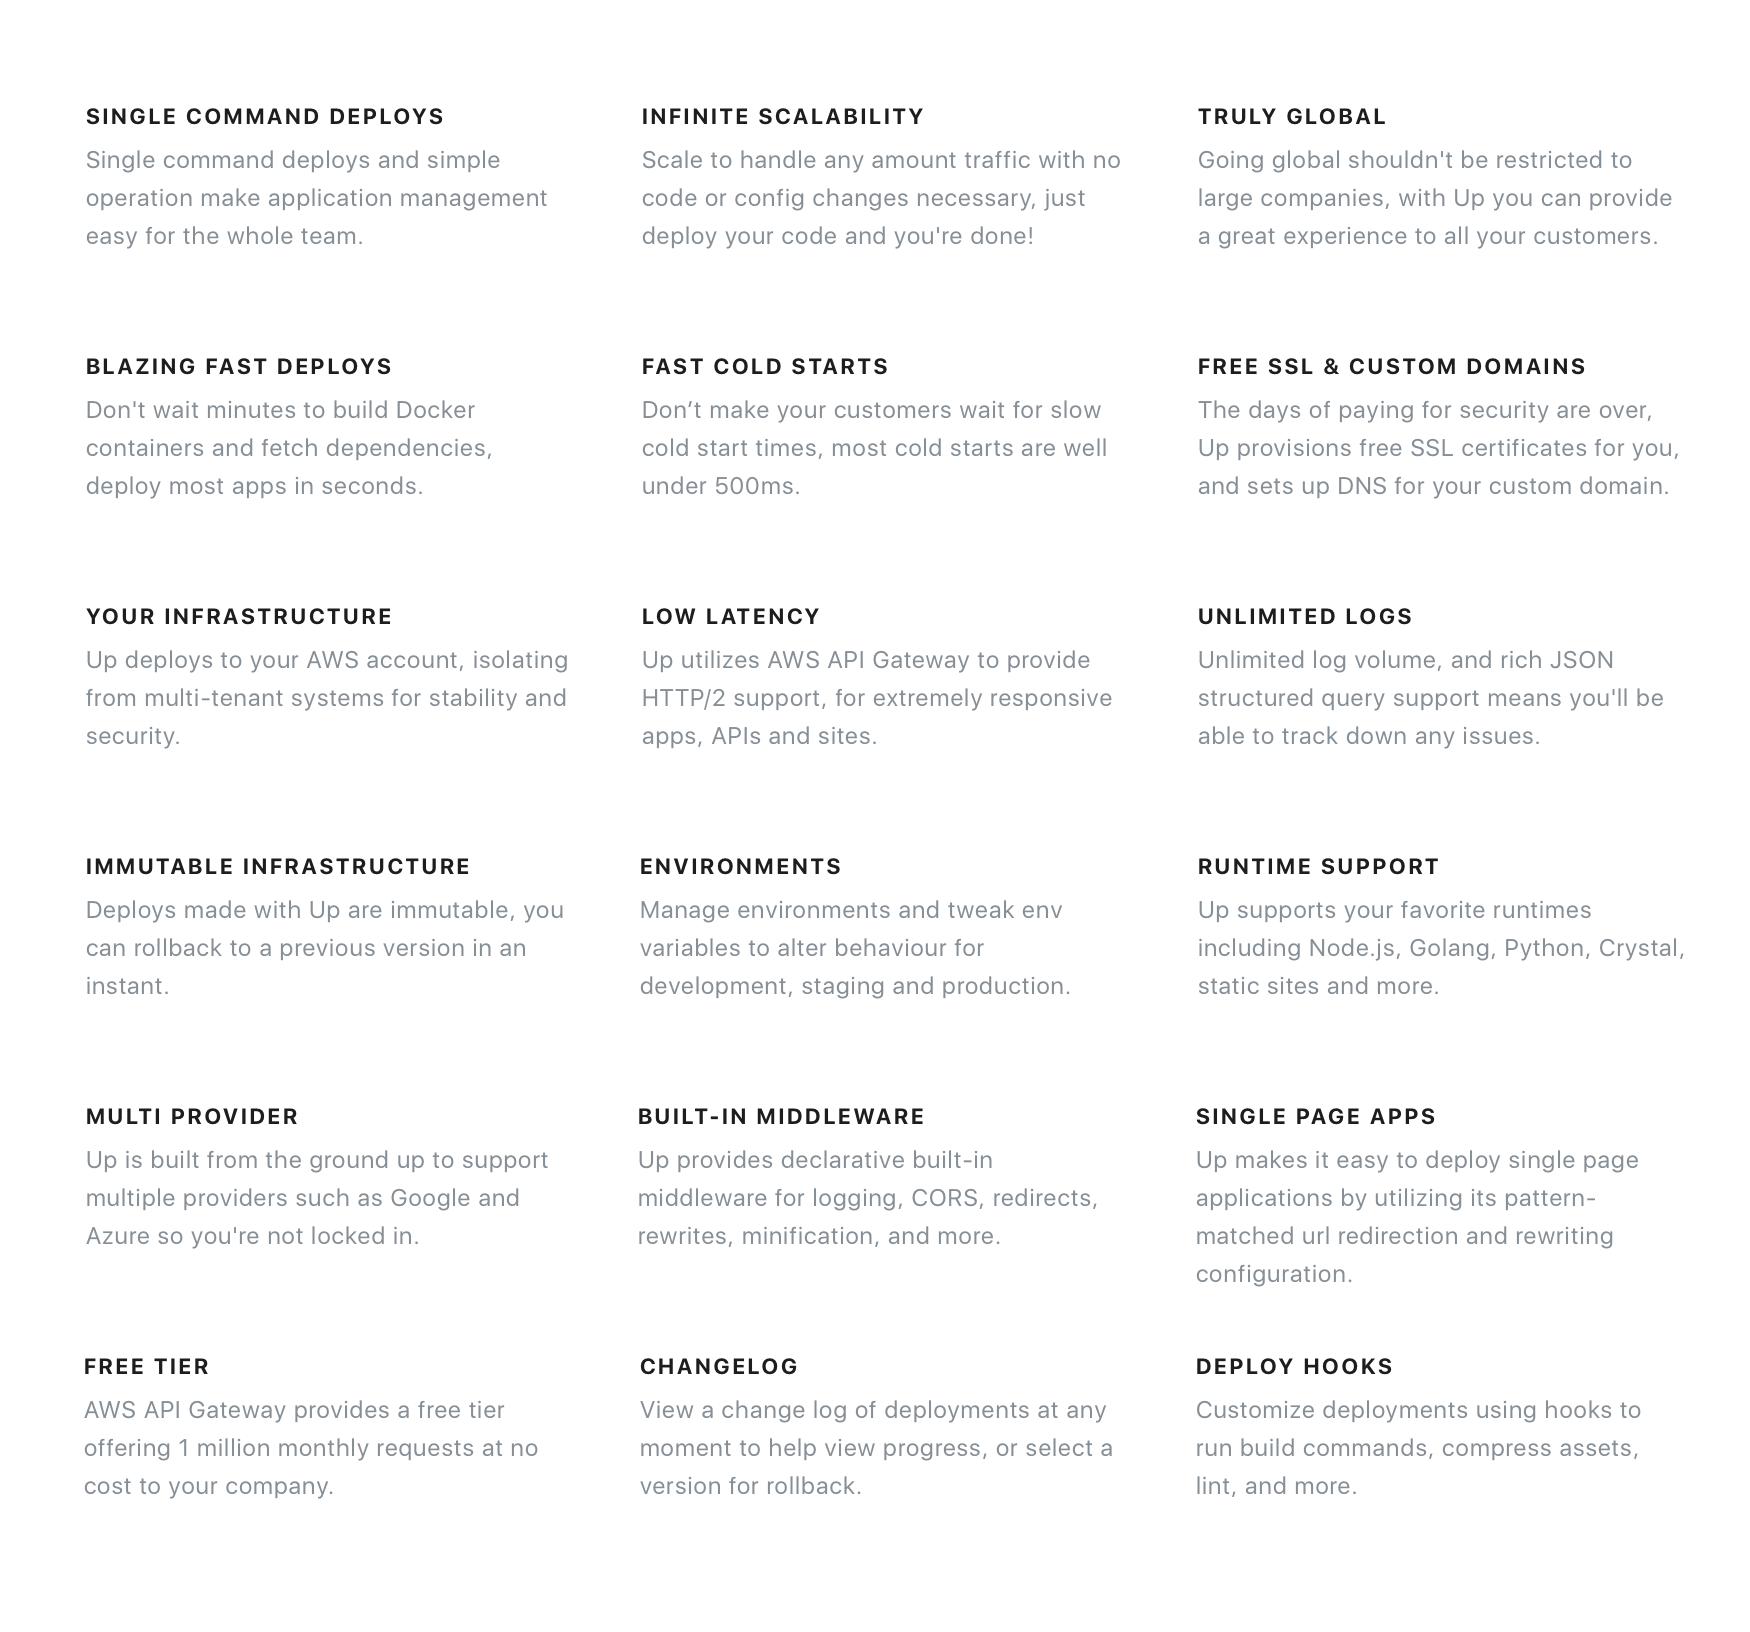
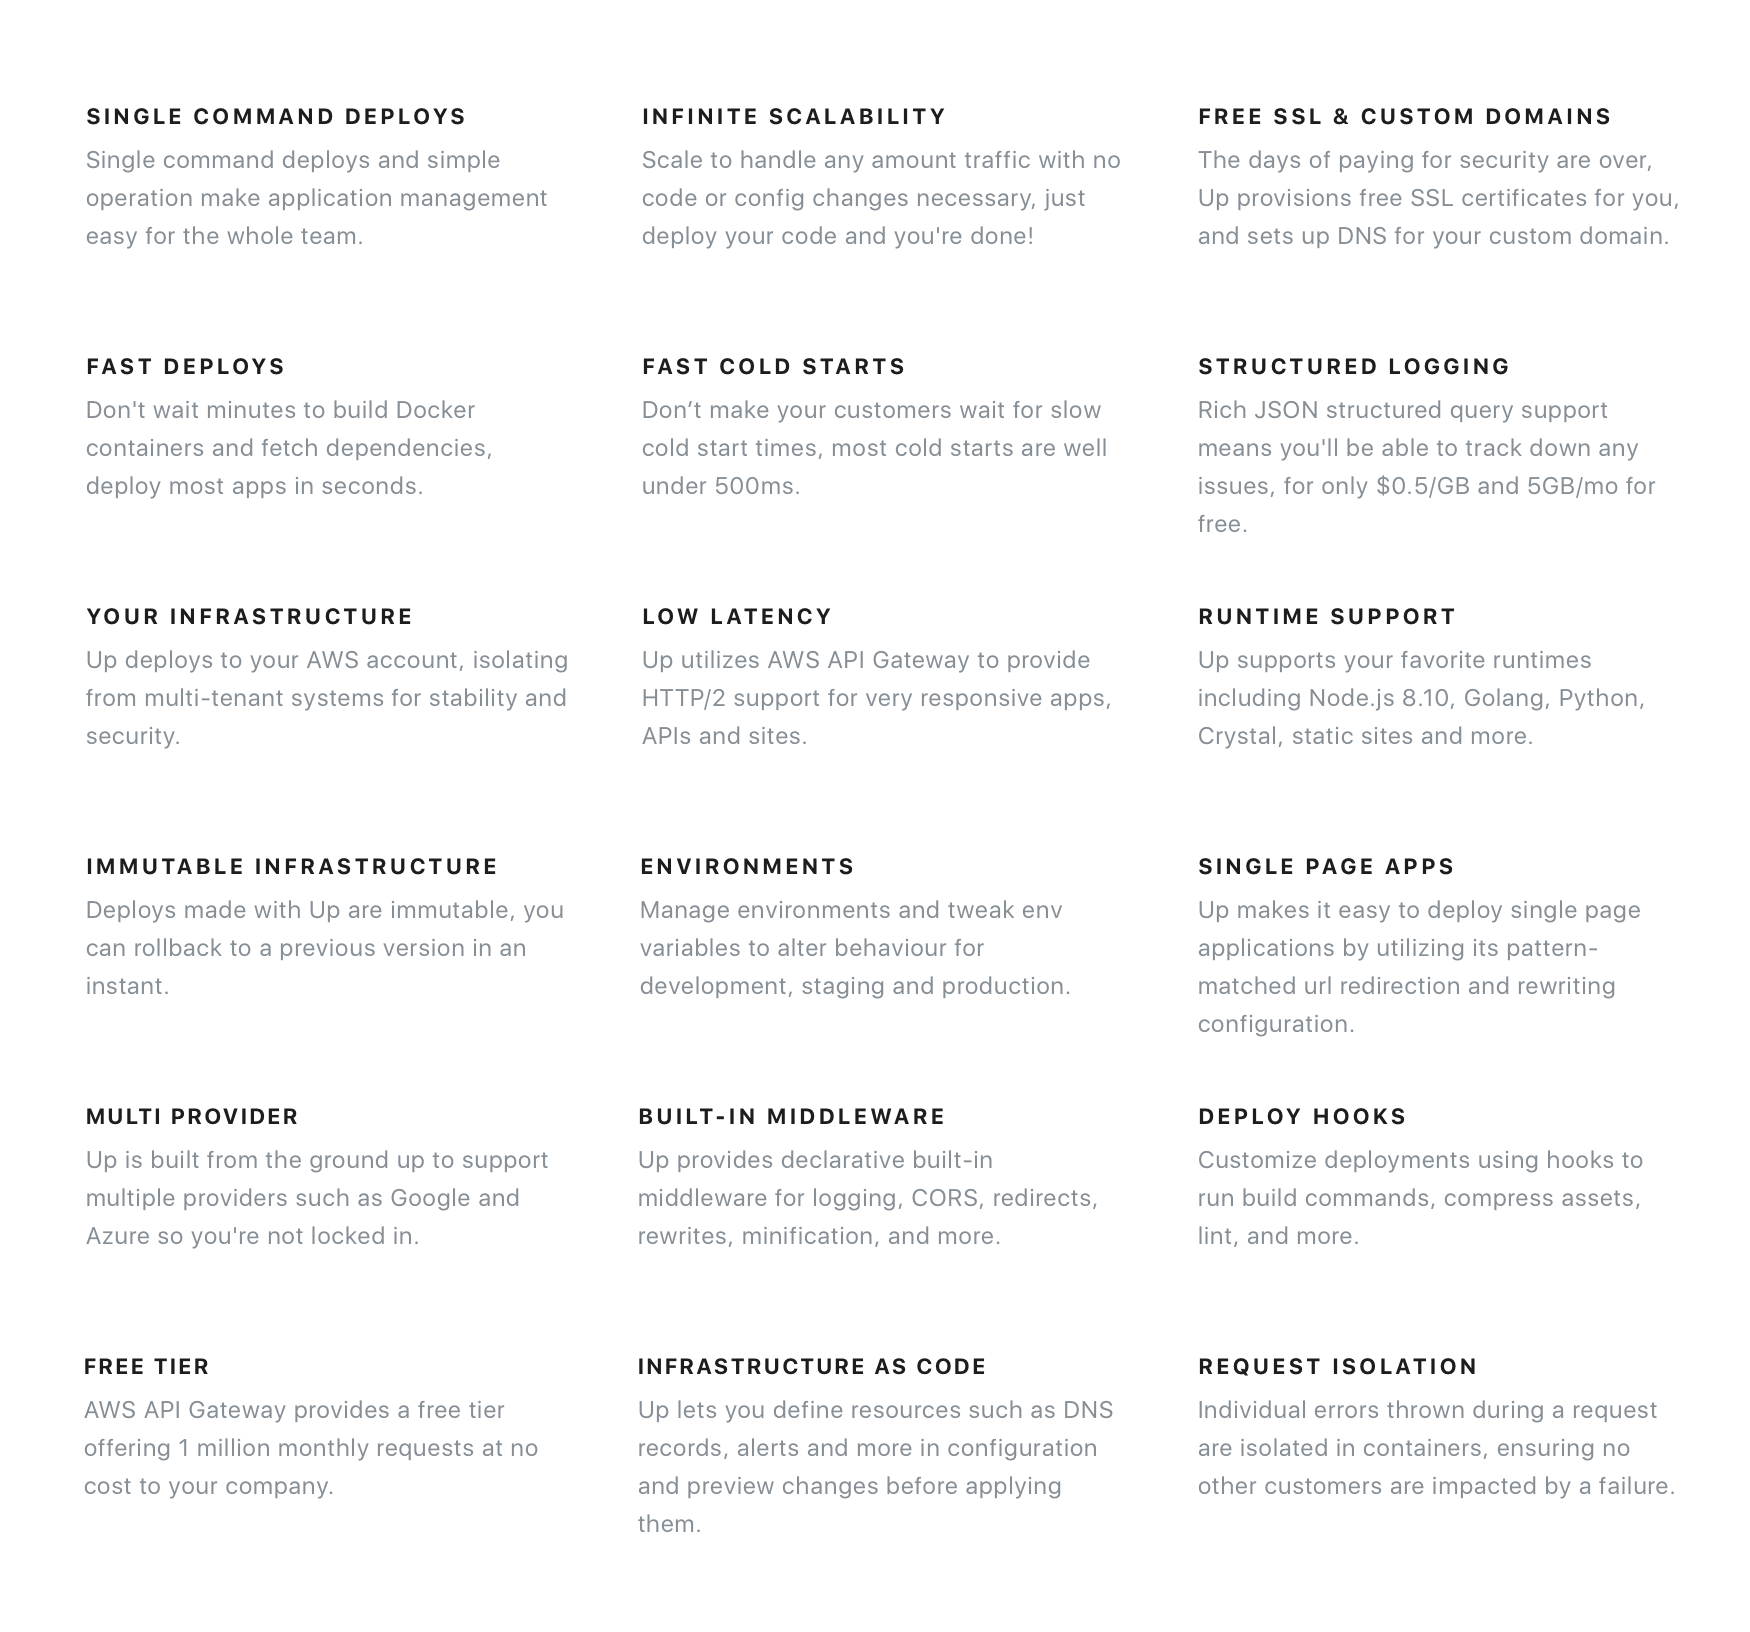
docs: add new feature grids that are up to date

diff --git a/Readme.md b/Readme.md
@@ -16,24 +16,15 @@ Check out the [documentation](https://up.docs.apex.sh/) for more instructions an
 
 ![](assets/screen2.png)
 
-## Features
+## OSS Features
 
-Open source community edition.
+Features of the free open-source edition.
 
 ![Open source edition features](assets/features-community.png)
 
 ## Pro Features
 
 Up Pro is **$20/mo USD** for unlimited use within your company. While in development, you may use the `up-early-adopter-325BFABFAFF7` coupon for 50% off forever. Head over to [Subscribing to Up Pro](https://up.docs.apex.sh/#guides.subscribing_to_up_pro) to get started.
-
-Note that the following Pro features are currently available:
-
- - Encrypted env variables
- - Alerting (email, sms, slack)
- - S3 upload acceleration (optional)
- - Instant rollback support with Git integration
- - Active warming to mitigate cold starts
- - Deployment changelog
 
 ![Pro edition features](assets/features-pro.png)
 
